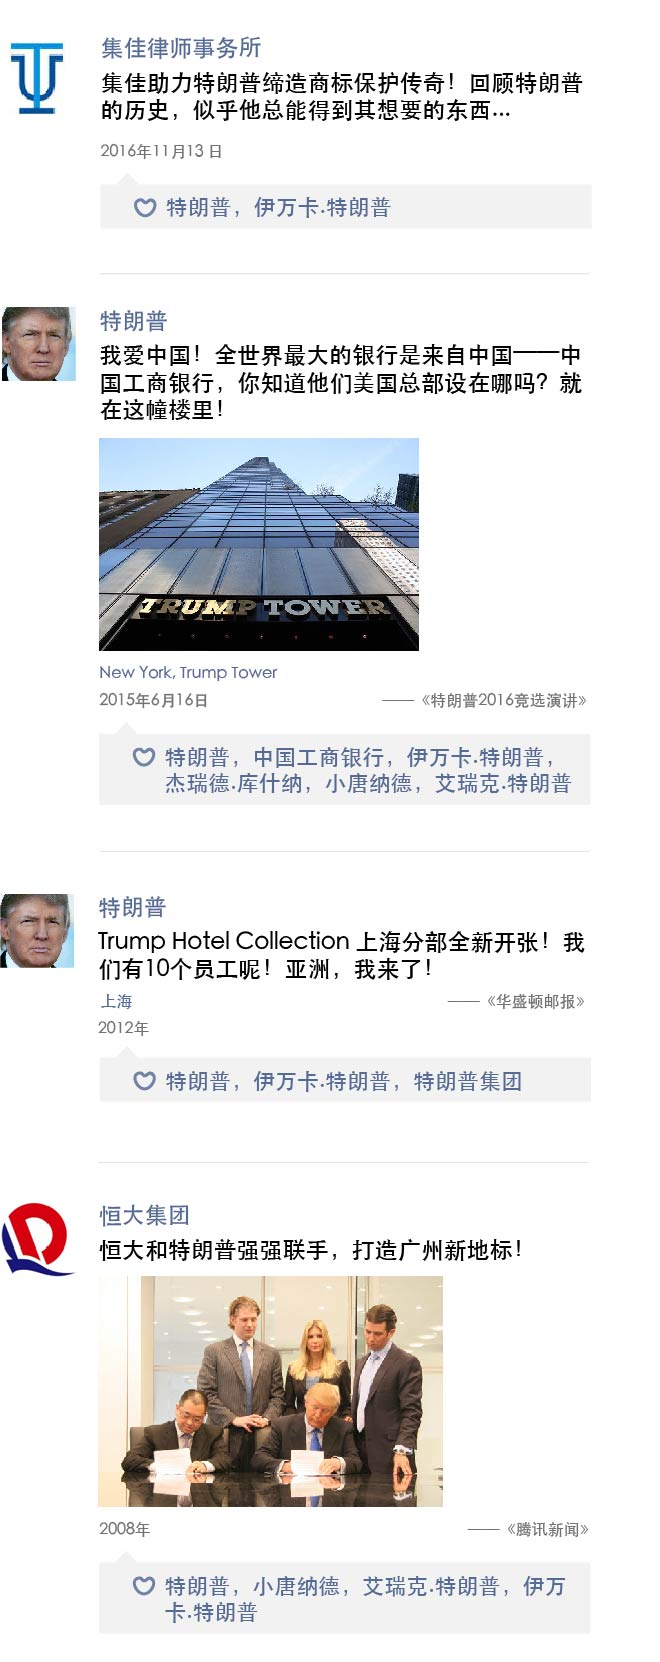
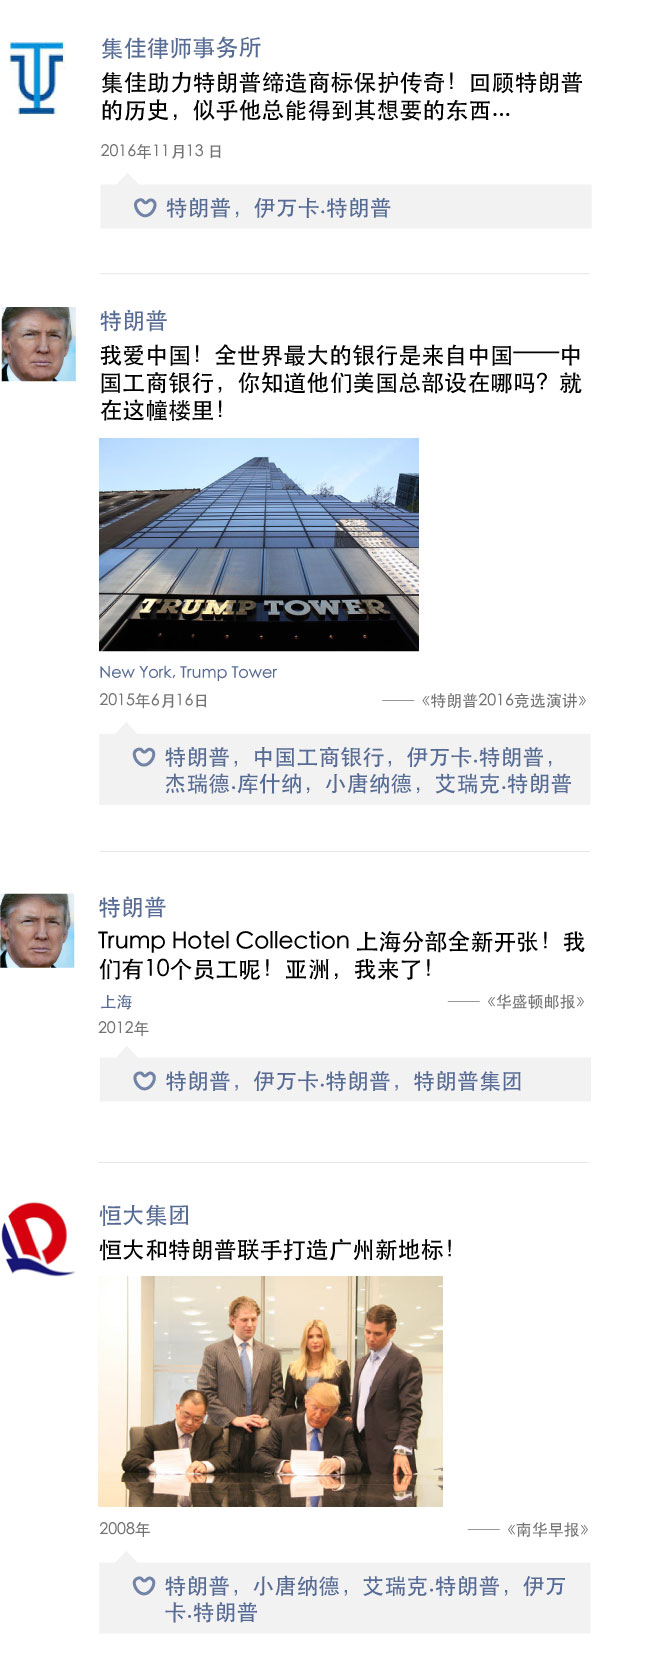
copy editing, change stuff based on feedback

diff --git a/index.html b/index.html
@@ -86,9 +86,9 @@
                                 <img src="img/DJT-wealthy.jpg" class="img-responsive" alt="moment2" width="330" height="392">
                                 <p class='section_title'>库什纳：特朗普开拓中国政商关系的左右手</p>
                                 <p>特朗普的女婿库什纳，除了担任白宫高级顾问外，通过其家族企业的商业触角，也替特朗普开启更多与中国商界、政界的关系。</p>
-                                <p>今年年初，马云与特朗普于纽约特朗普大楼会面，当天他承诺在美国增加一百万就业机会。去年，马云参与投资一家名为Cadre的纽约房地产科技初创公司，该公司创始人为库什纳。</p>
+                                <p>今年年初，马云与特朗普于纽约特朗普大楼会面，当天他承诺在美国增加一百万就业机会。去年马云参与投资一家名为Cadre的纽约房地产科技初创公司，该公司投资人之一为库什纳。</p>
                                 <p>除此之外，2016年末美国媒体传出安邦保险集团正在与库什纳家族企业谈合作，要合资改建纽约一高楼，直到不久前合作告吹。</p>
-                                <p>    今年年初，美国媒体爆出一位名叫Angela Chen的中国女性商人用1500万美金价格购得纽约公园大道一处豪宅，该豪宅属于特朗普集团名下物业，Angela Chen为中国艺术基金会主席。</p>
+                                <p> 今年年初，美国媒体爆出一位名叫Angela Chen的中国女性商人用1500万美金价格购得纽约公园大道一处豪宅，该豪宅属于特朗普集团名下物业，Angela Chen为中国艺术基金会主席。</p>
                                 <div class="panel-group" id="accordion">
                                     <div class="panel ">
                                         <div class="panel-heading">
@@ -115,11 +115,27 @@
                                 </div>
                                 <img src="img/DJT-biz.jpg" class="img-responsive" alt="moment2" width="330" height="392">
                                  <p class='section_title'>多次尝试不尽人意</p>
-                                 <p>时间追溯回2008年，特朗普就已经将投资目光投向了中国市场。他在那一年与恒大及中国香港房地产投资公司东方地产集团签下合约，欲斥资在广州建造一座办公大楼，但最后这个上千万美金的项目因恒大集团的撤出而告终。</p>
-                                 <p>一次的失败并没有打倒特朗普想要进军中国市场的决心，2012年他再次进行尝试，在上海开设了特朗普集团的亚洲首个办公室，并雇用了一名CEO管理公司的正常运作。</p>
-                                 <p>2014年他与国家电网签下上亿美金的大合约，声称这个项目将为北京带来可观发展。不幸的是这次幸运女神依然没有对他眷顾，这次合作也因为国家电网被指控非法挪用公共土地建设而失败。而特朗普集团的上海办公室也在后来关闭。</p>
+                                 <p>时间追溯回2008年，特朗普就已经将投资目光望向中国市场。他在那一年与恒大及中国香港一地产集团签下合约，欲在广州建造一座办公大楼，但这个上千万美金的项目因恒大集团的撤出而告终。</p>
+                                 <p>一次的失败并没有打倒特朗普想要进军中国市场的决心。2012年他在上海开设了特朗普集团的亚洲首个办公室，并雇用了一名CEO管理公司。</p>
+                                 <p>2014年他与国家电网签下上亿美金的大合约，声称这个项目将为北京带来可观发展。不幸的是，国家电网被指控非法挪用公共土地建设，项目因而宣告终止。特朗普集团的上海办公室也在后来关闭。</p>
                                  <br>
                                 <p class='section_title'>总统光环是打开局面还是利益冲突？</p>
+<!--                                 <div class="panel-group" id="accordion">
+                                    <div class="panel ">
+                                        <div class="panel-heading">
+                                            <h4 class="panel-title">
+                                                <a data-toggle="collapse" data-parent="#accordion" href="#collapse3">>>查看特朗普在华商标保卫史</a>
+                                            </h4>
+                                        </div>
+                                        <div id="collapse3" class="panel-collapse collapse">
+                                            <div class="panel-body">
+                                                <img src="img/Moment3-timeline.png" class="img-responsive" alt="moment1" width="330" height="392">
+                                            </div>
+                                        </div>
+                                    </div>
+                                </div> -->
+                                <p>除了与各大企业投资合作，特朗普要打开中国市场的第一步是注册商标。他早在2006年底向中国商标局申请注册“Trump”，但花费了十余年时间、数十万美金，直到今年二月，也就是总统就职后，才正式获得该商标的使用权。</p>
+
                                 <div class="panel-group" id="accordion">
                                     <div class="panel ">
                                         <div class="panel-heading">
@@ -134,8 +150,10 @@
                                         </div>
                                     </div>
                                 </div>
-                                <p>除了与各大企业投资合作，特朗普要打开中国市场的第一步是注册商标。自2006年12月首次向中国商标局申请注册“Trump”起，这位现任美国总统总共花费了十余年时间、数十万美金，才最终于今年2月正式获得该商标的使用权。而这是否与“美国总统”光环有关呢？像这样的利益冲突对于曾为商人的特朗普来说还有不少。</p>
-                                <p>2012年9月，中国工商银行美国总部迁入特朗普大楼，以每年约合1亿美金的租金开始租约，成为该楼中的最大租户。富国银行资料显示，工行每平方英尺95.48美金的租金价格高于楼中其他租户，租约将于2019年10月截止。如果届时双方续约，会给多次公开表示要对中国产品征收重税的特朗普产生潜在的利益冲突。</p>
+
+                                <p>像是特朗普这样「商人总统」的角色，还有不少潜在的利益冲突问题。</p>
+
+                                <p>2012年9月，中国工商银行美国总部迁入特朗普大楼，每年缴纳约1亿美金的租金，成为该楼中的最大租户，富国银行资料显示，工行每平方英尺的租金高于楼中其他租户。租约将于特朗普总统任内截止，若届时双方续约，租金无论高低都会是利益冲突热议的导火线。</p>
                             </div>
                         </div>                    
 

diff --git a/css/customized.css b/css/customized.css
@@ -119,7 +119,7 @@ p.section_title{
     vertical-align: middle;
     text-align: center;
     color: #fff;
-    font-size: 4.5vw;
+    font-size: 2.5vw;
 }
 
 @media all and (max-width: 420px) {
@@ -217,7 +217,9 @@ p.section_title{
         font-weight: bold;
     }
 
-
+    .friend-zone-text{
+        font-size: 5vw;
+    }
 
 
     
@@ -344,6 +346,13 @@ p.section_title{
         font-size: 2vw;
     }
 
+    .friend-zone{
+        height: 70px;
+    }
+
+    .friend-zone-text{
+        font-size: 5vw;
+    }
 
 }
 
@@ -459,6 +468,7 @@ p.section_title{
     .note{
         font-size: 1.5vh;
     }
+
 }
 	
 
